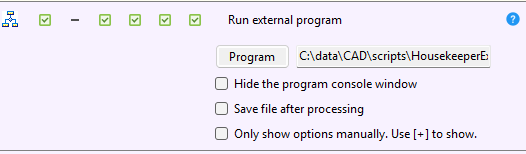
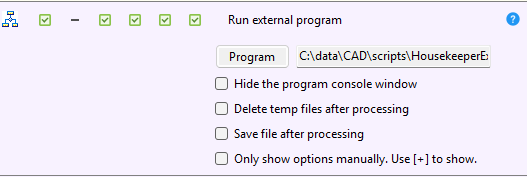
Save Drawing As implement expression editor

diff --git a/release_notes.md b/release_notes.md
@@ -13,6 +13,67 @@ Please note, the program has been tested on thousands of our files, but none of 
 
 Feel free to report bugs and/or ideas for improvement on the [<ins>**Solid Edge Forum**</ins>](https://community.sw.siemens.com/s/topic/0TO4O000000MihiWAC/solid-edge) or [<ins>**GitHub**</ins>](https://github.com/rmcanany/SolidEdgeHousekeeper/issues).
 
+## V2025.3 Enhancements/Fixes
+
+### Update Blocks
+
+Sponsored by **@john.matthews3452 (Hatch)**. Thank you!
+
+Added a new command to replace, add, and/or delete drawing sheet blocks.
+
+![Update Blocks](My%20Project/media/task_update_blocks.png)
+
+The block library, usually just your Draft template, is the source for new or replacement blocks.
+
+When adding a block, the program places it into the file's block collection.  It then checks each sheet of the library and places an occurrence of the block on the corresponding sheet of the file.  It is placed at the same location, with the same scale and rotation, as the original.
+
+### Save Drawing As
+
+Contributed by **@Francesco Arfilli**.  Thank you!
+
+Added the ability to create filenames and subdirectory formulas using the Expression Editor.  This can be especially handy if you need to use an `If` statement to decide how something is named.
+
+![Expression Editor](My%20Project/media/release_notes_task_save_drawing_as.png)
+
+
+### Run External Program
+
+Added an option to hide the popup window of the external program (Thank you **@[Robin BIoomberg]!**)  This keeps you from being interrupted every few seconds while trying to get other work done.
+
+![Run External Program](My%20Project/media/task_run_external_program.png)
+
+Added the ability to refer to Solid Edge type libraries in code snippets.  Previously, only Visual Basic types were recognized.
+
+Added an option to delete temp files created by the snippet functionality.  Normally you want this enabled, but can disable it if you need to inspect the `*.ps1` file created by the command.
+
+### File List
+
+Contributed by **@Francesco Arfilli**.  Thank you!
+
+Fixed an issue where properties on the list were not being shown for read-only files.  (Thank you **@ih0nza!**)
+
+Fixed an issue where a server query was not returning results when the query contained a property formula.
+
+![Configuration Tab -- General Page](My%20Project/media/configuration_tab_general_page.png)
+
+Added a reminder to update the file list if any changes to the input list is made.  This is for new or infrequent users.  It's very annoying.  Turn it off on the **Configuration Tab -- General Page**
+
+### Update Parts Lists
+
+Added an example code snippet to update the properties of a parts list from another entry in `DraftList.txt`.  (Thank you **@[Robin BIoomberg]!**)  The snippet can be found in the [<ins>**HousekeeperExternalPrograms**</ins>](https://github.com/rmcanany/HousekeeperExternalPrograms/tree/main/Snippets) repo.
+
+### Open Draft Files Inactive
+
+Added an option to open draft files in inactive mode.  (Thank you **@ih0nza!**)  The option is on the **Configuration Tab -- General Page**.  It is meant to speed up processing of large assembly drawings.
+
+Not all commands that process drawings are compatible with this option.  If there is a conflict, it is reported to the user before processing begins.
+
+### Housekeeper Not Starting
+
+Solution contributed by **@Francesco Arfilli**.  Thank you!
+
+From a bug report on Github (Thank you **@DieCola85!**), Francesco figured out the user's COM objects had become unregistered.  He suggested re-running the most recent MP and that fixed it!
+
 ## V2025.2 Enhancements/Fixes
 
 We'll get to the highlights in just a second, but first some big news...  Housekeeper has its first **Sponsor!**  
